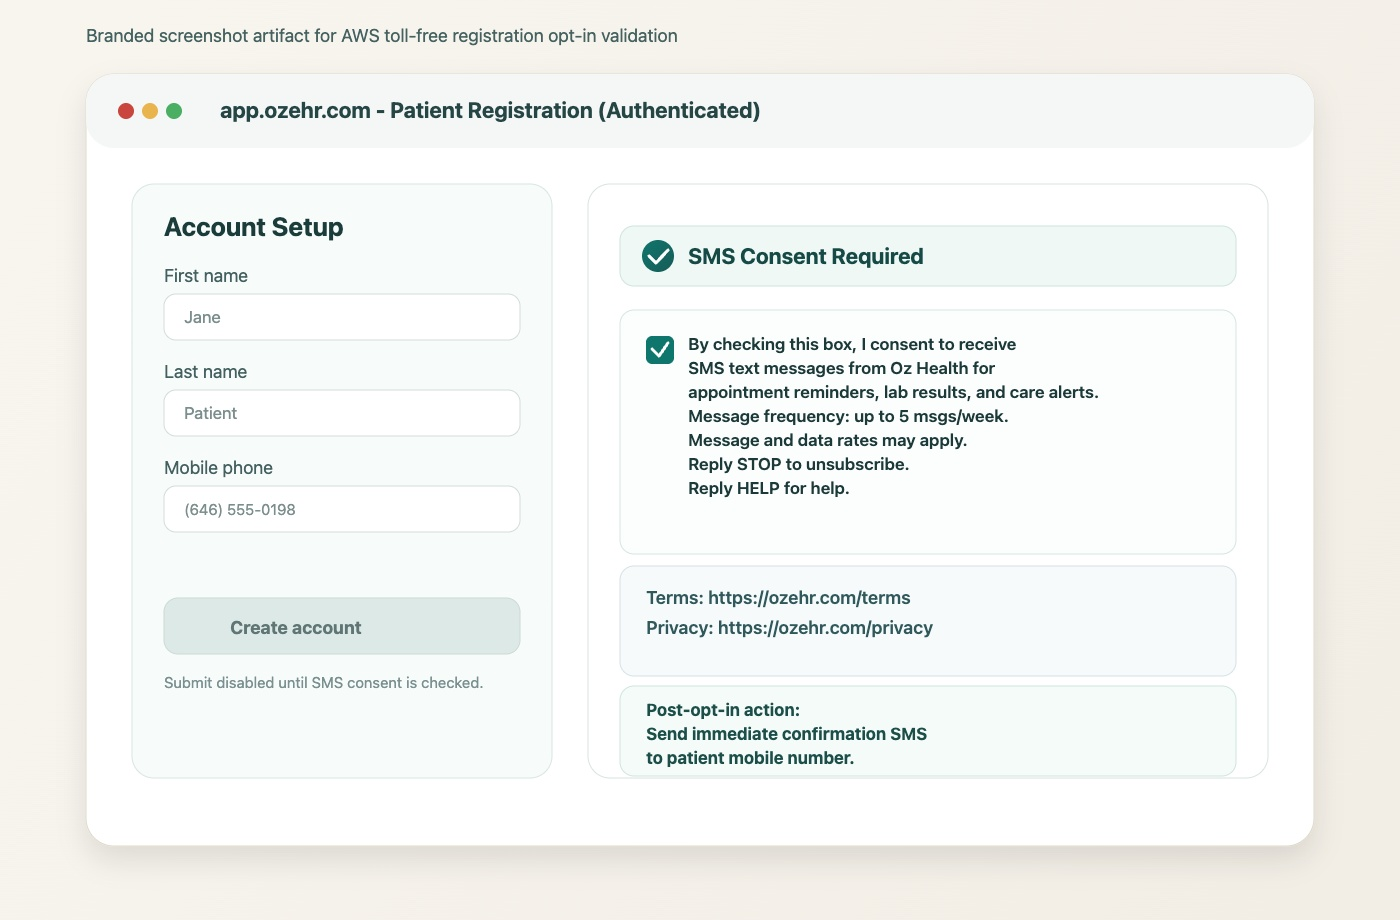
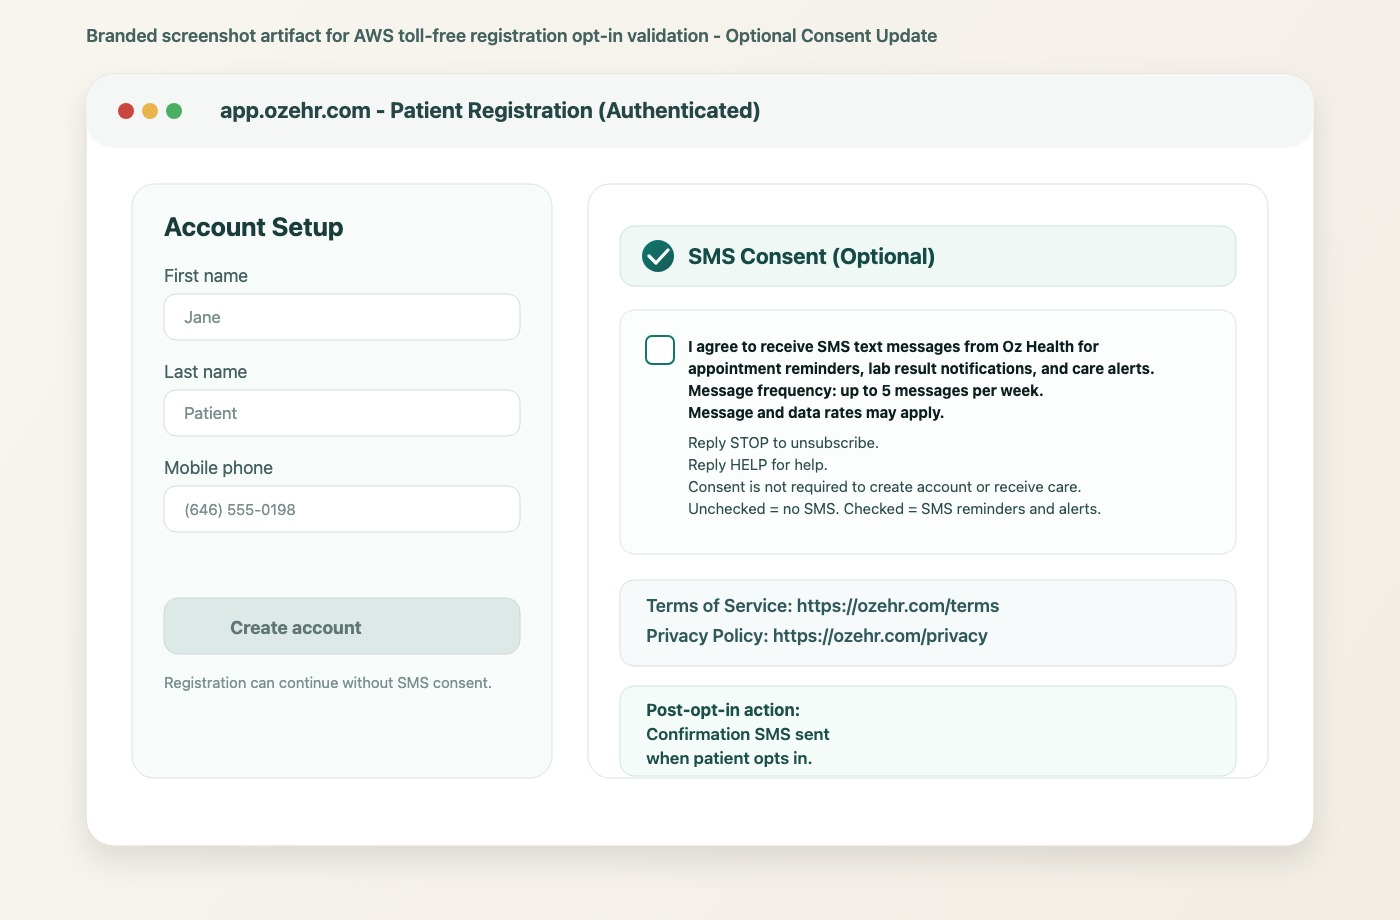
Update SMS opt-in evidence to optional web-form consent language

diff --git a/sampleoptin.html b/sampleoptin.html
@@ -99,7 +99,7 @@
               <div class="hero-note">
                 <span>Public link: <a href="https://ozehr.com/sampleoptin.html">https://ozehr.com/sampleoptin.html</a></span>
                 <span class="sep">•</span>
-                <span>Last updated: February 26, 2026</span>
+                <span>Last updated: February 27, 2026</span>
               </div>
             </div>
 
@@ -108,7 +108,7 @@
                 <div class="art-badge"><span aria-hidden="true"></span> Opt-In</div>
                 <img
                   class="art"
-                  src="assets/svg/sms-opt-in-workflow.svg?v=20260226a"
+                  src="assets/svg/sms-opt-in-workflow.svg?v=20260227a"
                   alt="Flowchart showing login, consent checkbox, confirmation SMS, and opt-out handling."
                   loading="lazy"
                   style="width:100%"
@@ -188,7 +188,7 @@
             </div>
             <img
               class="art"
-              src="assets/img/sms-opt-in-proof-upload.jpg?v=20260226a"
+              src="assets/img/sms-opt-in-proof-upload.jpg?v=20260227a"
               alt="Focused upload artifact showing explicit SMS consent language, frequency, rates, and STOP/HELP."
               loading="lazy"
               style="margin-top:12px"
@@ -207,23 +207,23 @@
               </p>
               <img
                 class="art"
-                src="assets/svg/sms-opt-in-workflow.svg?v=20260226a"
+                src="assets/svg/sms-opt-in-workflow.svg?v=20260227a"
                 alt="Oz Health SMS opt-in workflow with six steps from login to consent management."
                 loading="lazy"
               />
               <div class="notice" style="margin-top:12px">
-                Opt-in type: <strong>Text / Web form checkbox consent</strong>. Opt-in occurs during authenticated patient registration.
+                Opt-in type: <strong>Web form (unchecked checkbox consent)</strong>. Opt-in occurs during authenticated patient registration.
               </div>
             </div>
 
             <div class="panel reveal">
               <h2 class="h2" style="margin-top:0">Consent language captured at opt-in</h2>
               <p class="muted">
-                Patients must check this consent box before account creation can be completed.
+                Users may opt in via an unchecked checkbox during registration.
               </p>
               <div class="notice" style="margin-top:12px">
-                "By checking this box, I consent to receive SMS text messages from Oz Health for appointment reminders,
-                lab results, and care alerts. Message frequency: up to 5 msgs/week. Message and data rates may apply.
+                "I agree to receive SMS text messages from Oz Health for appointment reminders, lab result notifications,
+                and care alerts. Message frequency: up to 5 messages per week. Message and data rates may apply.
                 Reply STOP to unsubscribe. Reply HELP for help."
               </div>
 
@@ -233,8 +233,8 @@
                     <svg viewBox="0 0 24 24" fill="none" xmlns="http://www.w3.org/2000/svg"><path d="M20 6L9 17L4 12" stroke="currentColor" stroke-width="2" stroke-linecap="round" stroke-linejoin="round"/></svg>
                   </div>
                   <div>
-                    <strong>Required action</strong>
-                    <p>Submit is blocked until the checkbox is selected.</p>
+                    <strong>Optional action</strong>
+                    <p>Account creation can continue even when the SMS checkbox is not selected (consent not required).</p>
                   </div>
                 </div>
                 <div class="item">
@@ -258,13 +258,13 @@
               </div>
 
               <div class="notice" style="margin-top:12px">
-                Exact registration description used for submission:
-                Patients register at app.ozehr.com and enter their mobile phone number. A required checkbox states:
-                "By checking this box, I consent to receive SMS text messages from Oz Health for appointment reminders,
-                lab results, and care alerts. Message frequency: up to 5 msgs/week. Message and data rates may apply.
-                Reply STOP to unsubscribe. Reply HELP for help." Patients must check the box to complete registration.
-                A confirmation SMS is sent immediately after opt-in. Terms: https://ozehr.com/terms.
-                Privacy: https://ozehr.com/privacy.
+                Opt-in workflow description for AWS registration update:
+                Users register at https://app.ozehr.com and may opt in via an unchecked checkbox:
+                "I agree to receive SMS text messages from Oz Health for appointment reminders, lab result notifications,
+                and care alerts. Message frequency: up to 5 messages per week. Message and data rates may apply.
+                Reply STOP to unsubscribe. Reply HELP for help." Consent is not required. Confirmation SMS sent.
+                Terms https://ozehr.com/terms Privacy
+                https://ozehr.com/privacy Evidence https://ozehr.com/sampleoptin.html
               </div>
             </div>
           </div>
@@ -282,8 +282,8 @@
               </p>
               <img
                 class="art"
-                src="assets/svg/sms-opt-in-screen.svg?v=20260226a"
-                alt="Registration screen with required SMS consent checkbox, terms link, and privacy link."
+                src="assets/svg/sms-opt-in-screen.svg?v=20260227a"
+                alt="Registration screen with optional SMS consent checkbox, terms link, and privacy link."
                 loading="lazy"
               />
             </div>
@@ -297,7 +297,7 @@
                   </div>
                   <div>
                     <strong>Clear opt-in workflow image or public link</strong>
-                    <p>Provided: this page + embedded workflow image at <code>assets/svg/sms-opt-in-workflow.svg?v=20260226a</code>.</p>
+                    <p>Provided: this page + embedded workflow image at <code>assets/svg/sms-opt-in-workflow.svg?v=20260227a</code>.</p>
                   </div>
                 </div>
                 <div class="item">

diff --git a/privacy.html b/privacy.html
@@ -85,7 +85,7 @@
           <div class="reveal">
             <span class="kicker"><span class="dot" aria-hidden="true"></span> Legal</span>
             <h1 class="h1">Privacy Policy</h1>
-            <p class="lead">Last updated: February 7, 2026</p>
+            <p class="lead">Last updated: February 27, 2026</p>
           </div>
         </div>
       </section>
@@ -155,7 +155,7 @@
               <div class="item">
                 <div>
                   <strong>No marketing resale</strong>
-                  <p>We do not sell personal information or share phone/email data with third parties for marketing purposes.</p>
+                  <p>We do not sell personal information or share phone/email data with third parties for marketing purposes. Mobile information and SMS opt-in data will not be shared with or sold to third parties or affiliates for marketing or promotional purposes.</p>
                 </div>
               </div>
             </div>
